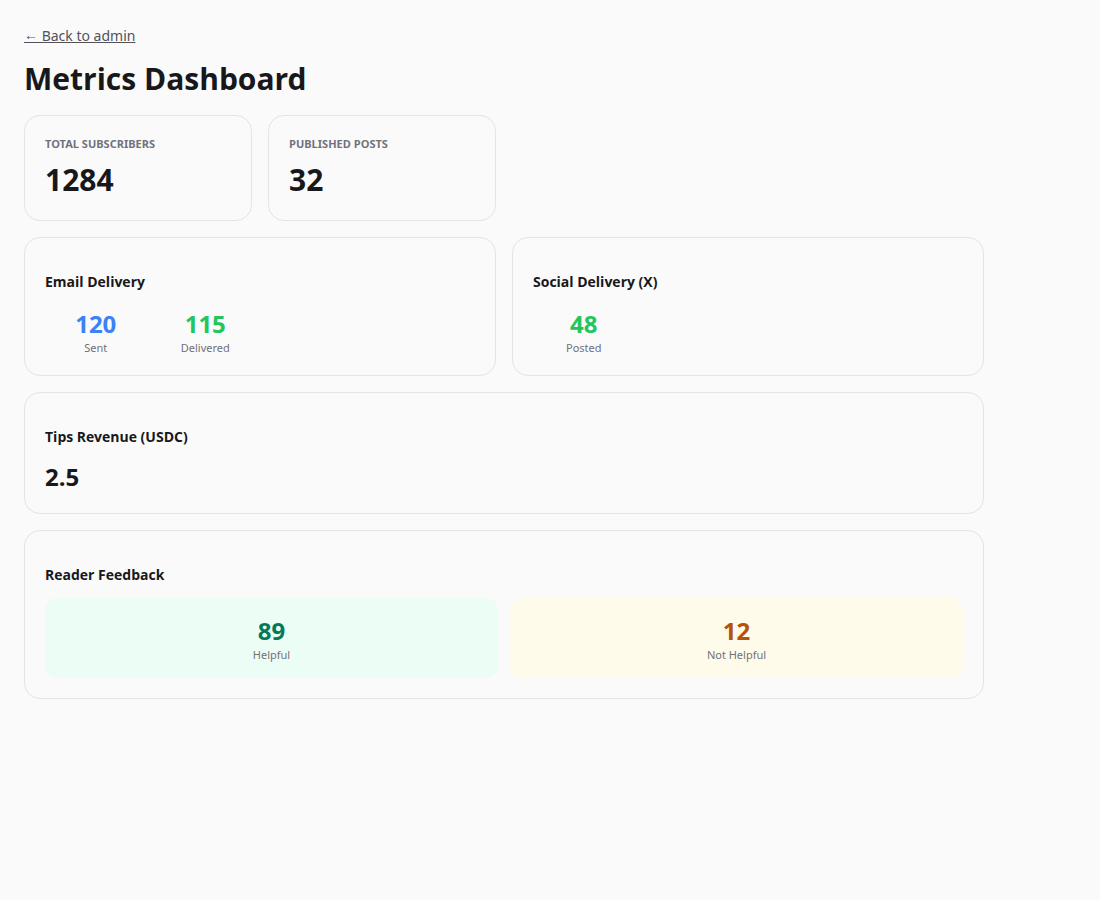
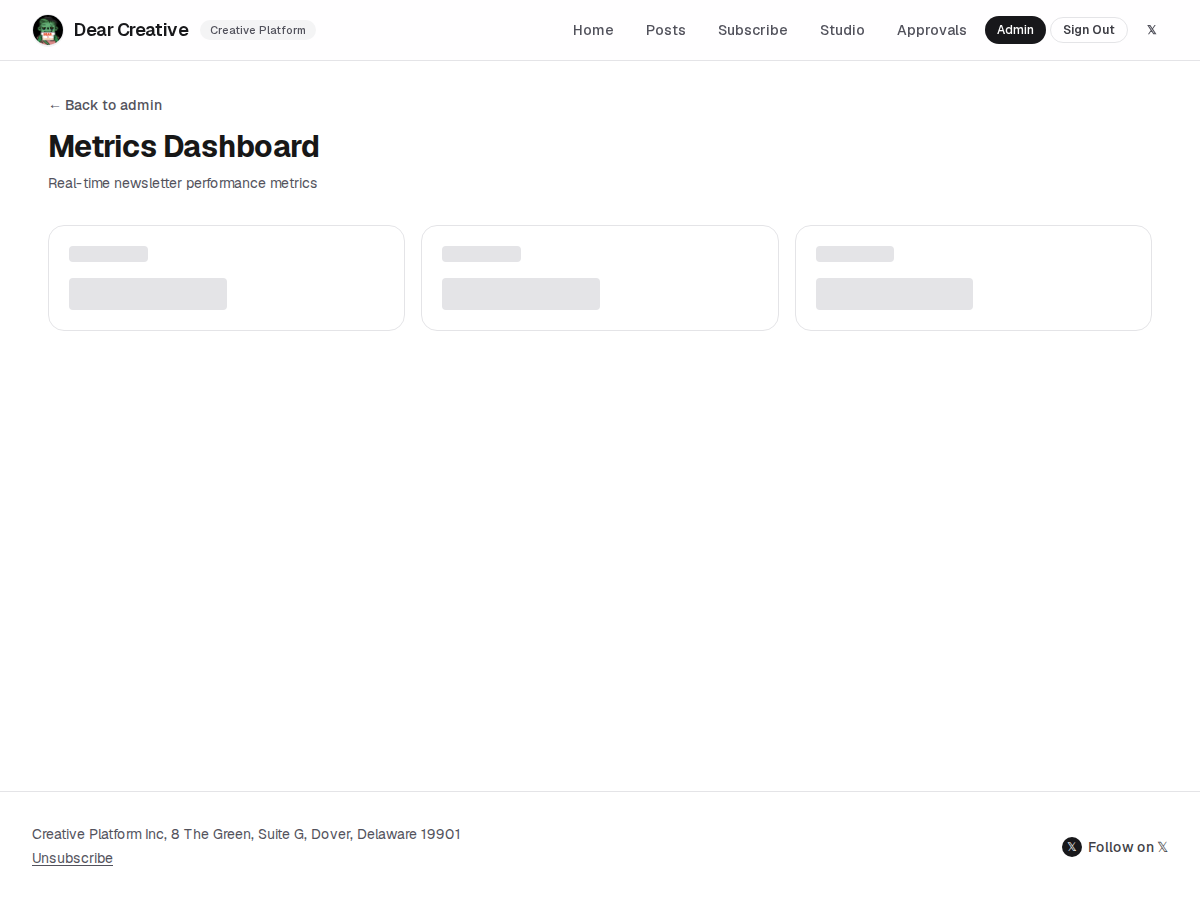
Address G2 review: real screenshots, trim deps, expand tests
- Replace PR screenshots with captures from next dev (mocked metrics API)
- Remove playwright devDependency and committed HTML capture script
- Drop unused fetchWithStudioBearerToken helper
- Test auth-not-ready skip and Privy throw studio fallback

diff --git a/src/app/admin/metrics/admin-metrics-client.test.tsx b/src/app/admin/metrics/admin-metrics-client.test.tsx
@@ -32,6 +32,27 @@ describe("AdminMetricsClient", () => {
     vi.restoreAllMocks();
   });
 
+  it("does not fetch metrics while auth session is not ready", async () => {
+    mockUseAuthSession.mockReturnValue({
+      ready: false,
+      isSignedIn: true,
+      authenticated: true,
+      getAccessToken: vi.fn(async () => "privy-metrics-token"),
+      privyConfigured: true,
+    });
+
+    const fetchMock = vi.spyOn(globalThis, "fetch");
+
+    const { container } = render(<AdminMetricsClient />);
+
+    expect(container.querySelector(".animate-pulse")).toBeTruthy();
+    expect(fetchMock).not.toHaveBeenCalled();
+
+    await waitFor(() => {
+      expect(fetchMock).not.toHaveBeenCalled();
+    });
+  });
+
   it("fetches metrics with Authorization bearer header", async () => {
     const fetchMock = vi.spyOn(globalThis, "fetch").mockResolvedValue(
       new Response(JSON.stringify(MOCK_METRICS_DATA), { status: 200 }),

diff --git a/src/lib/admin/studio-bearer-token.test.ts b/src/lib/admin/studio-bearer-token.test.ts
@@ -53,6 +53,21 @@ describe("resolveStudioBearerToken", () => {
     expect(getAccessToken).toHaveBeenCalledOnce();
   });
 
+  it("falls back to localStorage studio token when getAccessToken throws", async () => {
+    store[STUDIO_TOKEN_STORAGE_KEY] = "studio-key";
+
+    const token = await resolveStudioBearerToken({
+      privyConfigured: true,
+      authenticated: true,
+      getAccessToken: async () => {
+        throw new Error("privy unavailable");
+      },
+      studioTokenFromStorage: readStudioTokenFromStorage(),
+    });
+
+    expect(token).toBe("studio-key");
+  });
+
   it("falls back to localStorage studio token when Privy token is missing", async () => {
     store[STUDIO_TOKEN_STORAGE_KEY] = "studio-key";
 

diff --git a/src/lib/admin/studio-bearer-token.ts b/src/lib/admin/studio-bearer-token.ts
@@ -30,21 +30,3 @@ export async function resolveStudioBearerToken(options: {
   }
   return token?.trim() ? token.trim() : null;
 }
-
-export async function fetchWithStudioBearerToken(
-  url: string,
-  init: RequestInit,
-  auth: {
-    privyConfigured: boolean;
-    authenticated: boolean;
-    getAccessToken: () => Promise<string | null>;
-    studioTokenFromStorage?: string;
-  },
-): Promise<Response> {
-  const token = await resolveStudioBearerToken(auth);
-  const headers = new Headers(init.headers);
-  if (token) {
-    headers.set("Authorization", `Bearer ${token}`);
-  }
-  return fetch(url, { ...init, headers });
-}
